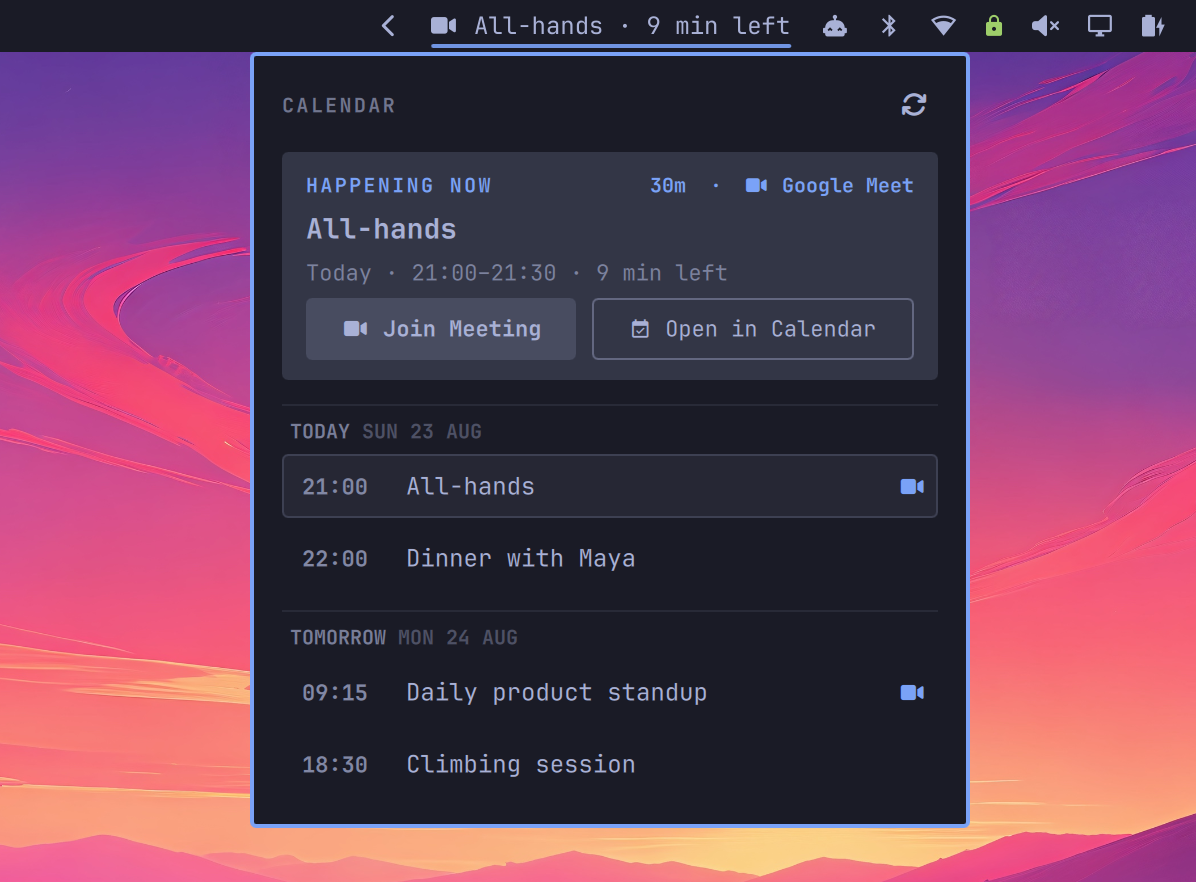
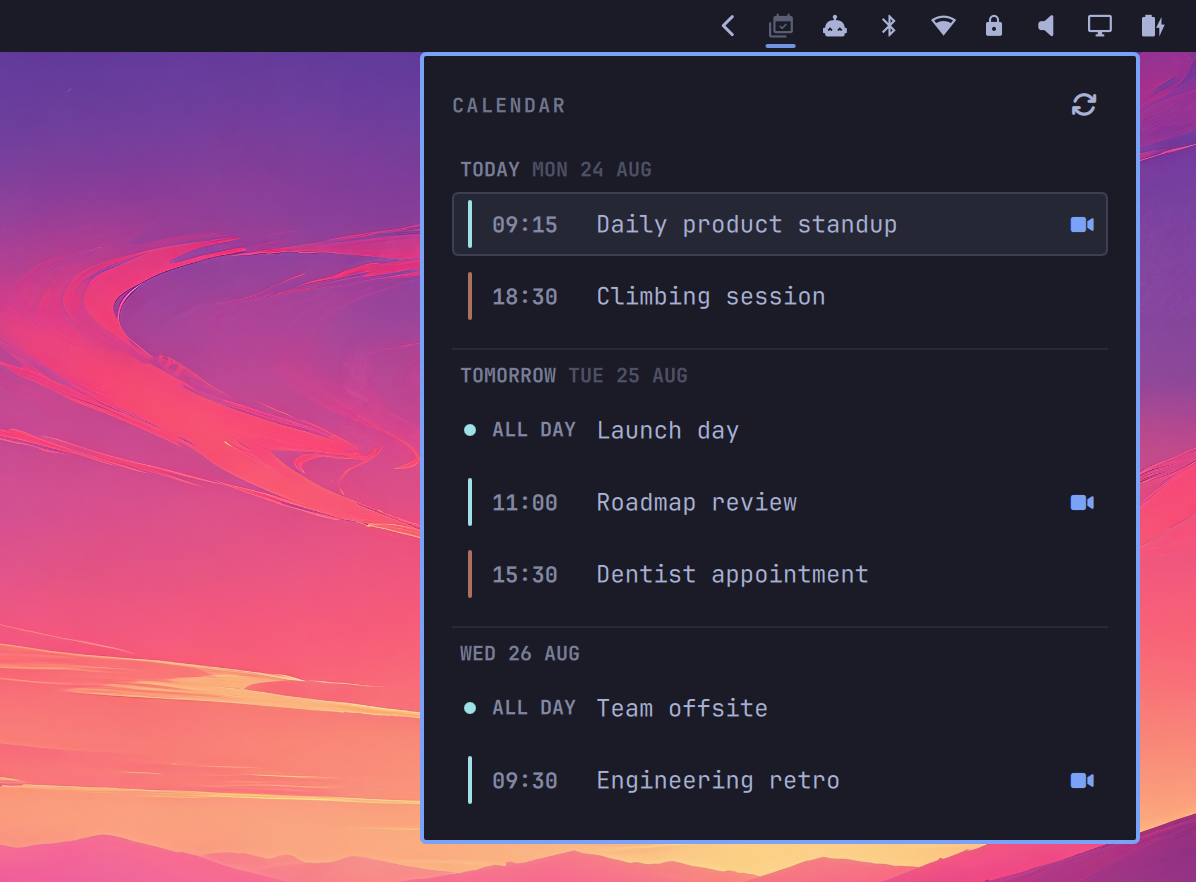
Update README

diff --git a/README.md b/README.md
@@ -1,63 +1,21 @@
-# Omarchy Caldir Widget
+# Caldir widget for Omarchy
 
-An Omarchy Quattro bar widget that shows the next meeting and a live countdown.
-Click it for a next-meeting hero and multi-day schedule, or right-click to join
-the next video meeting.
+Lightning-fast access to your next calendar events in the Omarchy bar.
 
-The widget runs `caldir events --json` against local calendar files, uses
-`caldir calendars --json` for calendar colors, and reads `caldir config --json`
-to honor the configured 12- or 24-hour time display. It does not parse ICS,
-store credentials, or contact a calendar provider. Sync is kept separate
-through `caldir pull`.
+Supports all major calendar providers (Google Calendar, iCloud, Outlook, CalDAV...) through [caldir](https://caldir.org).
 
-## Requirements
+Pairs great with [renCal](https://rencal.org).
 
-- Omarchy 4 with the Quickshell-based bar
-- `caldir` v0.12.1 or newer, available on the shell's `PATH`
-- At least one calendar configured and pulled with caldir
-
-Check the data source before installing:
-
-```sh
-curl -sSf https://caldir.org/install.sh | sh
-caldir connect
-caldir sync
-caldir events --json --from 2026-08-19 --to 2026-08-22
-```
-
-If `caldir` is missing, opening the widget offers to run the official installer
-and links to [caldir.org](https://caldir.org) for provider setup. Installation
-only starts after clicking **Install caldir**.
+![Screenshot](assets/screenshot.png)
 
 ## Install
-
-From a hosted Git repository:
 
 ```sh
 omarchy plugin add <repo-url> --enable
 ```
 
-For local development, validate and symlink this checkout into Omarchy's
-personal plugin directory:
+Requires [caldir-cli](https://caldir.org) v0.12.1 or higher.
 
-```sh
-just install
-```
-
-The recipe safely reuses a symlink that already points to this checkout and
-repairs dangling symlinks left by a moved or renamed checkout. It refuses to
-replace another file, directory, or live symlink. After source edits, validate
-and cold-reload the shell with:
-
-```sh
-just reload
-```
-
-To disable the plugin and remove only that development symlink:
-
-```sh
-just uninstall
-```
 
 ## Use
 
@@ -158,34 +116,35 @@ omarchy shell org.ren.caldir close
 
 ## Optional background pull
 
-The widget refreshes from local files once a minute. To pull provider changes
-every five minutes, install and enable the included systemd user timer:
-
-```sh
-install -Dm644 systemd/caldir-pull.service ~/.config/systemd/user/caldir-pull.service
-install -Dm644 systemd/caldir-pull.timer ~/.config/systemd/user/caldir-pull.timer
-systemctl --user daemon-reload
-systemctl --user enable --now caldir-pull.timer
-```
-
-Inspect it with:
+The widget refreshes from local files once a minute. Inspect it with:
 
 ```sh
 systemctl --user status caldir-pull.timer
 journalctl --user -u caldir-pull.service
 ```
 
-The timer is optional; another process may keep caldir's local files fresh.
-
 ## Development
 
-The model is native ESM with no runtime dependencies or build step:
+For local development, validate and symlink this checkout into Omarchy's
+personal plugin directory:
 
 ```sh
-npm test
-/usr/lib/qt6/bin/qmllint -I ~/.local/share/omarchy/shell BarWidget.qml
-/usr/lib/qt6/bin/qmllint -I ~/.local/share/omarchy/shell Panel.qml
-omarchy plugin validate .
+just install
 ```
 
-Run all three with `just test`.
+The recipe safely reuses a symlink that already points to this checkout and
+repairs dangling symlinks left by a moved or renamed checkout. It refuses to
+replace another file, directory, or live symlink. After source edits, validate
+and cold-reload the shell with:
+
+```sh
+just reload
+```
+
+To disable the plugin and remove only that development symlink:
+
+```sh
+just uninstall
+```
+
+Before submitting a PR, ensure everything runs with `just test`.
